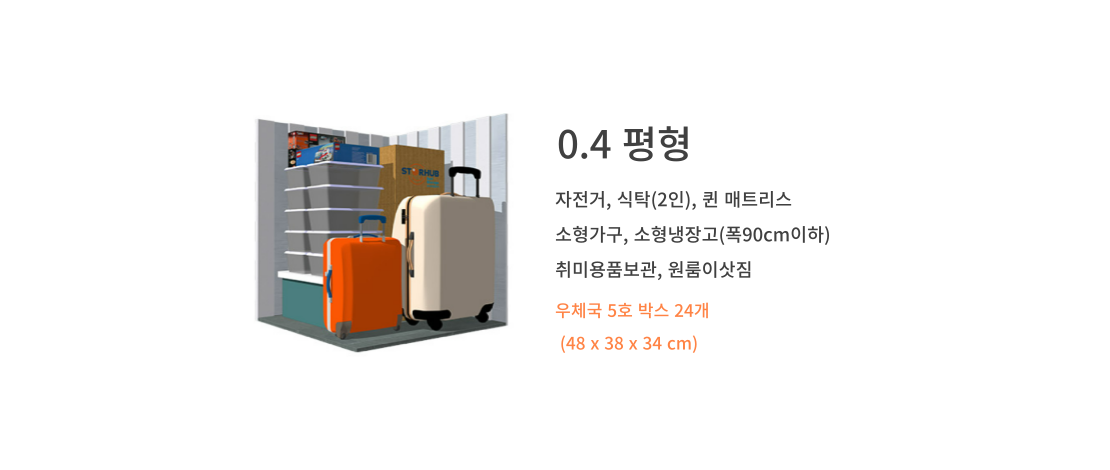
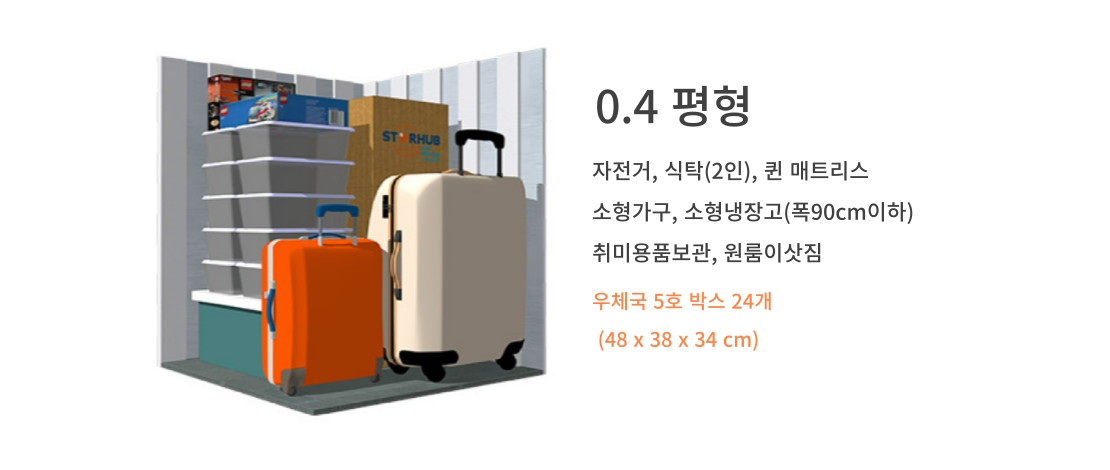
서비스이용안내 페이지 수정

Changed region(s): [[0.1225, 0.0894, 0.827, 0.8936]]

diff --git a/src/main/resources/templates/notice/service-use-Info.html b/src/main/resources/templates/notice/service-use-Info.html
@@ -24,7 +24,7 @@
                             <ul class="list-tap">
                                 <li class="list-item">
                                     <label for="small-size-button">
-                                        <button id="small-size-button" class="size-button">
+                                        <button id="small-size-button" type="button" class="size-button-select">
                                             <span class="size-text">소</span>
                                         </button>
                                     </label>
@@ -38,21 +38,21 @@
                                 </li>
                                 <li class="list-item">
                                     <label for="large-size-button">
-                                        <button id="large-size-button" class="size-button">
+                                        <button id="large-size-button" type="button" class="size-button">
                                             <span class="size-text">대</span>
                                         </button>
                                     </label>
                                 </li>
                                 <li class="list-item">
                                     <label for="extra-large-size-button">
-                                        <button id="extra-large-size-button" class="size-button">
+                                        <button id="extra-large-size-button" type="button" class="size-button">
                                             <span class="size-text">특대</span>
                                         </button>
                                     </label>
                                 </li>
                             </ul>
                             <div class="img-wrapper">
-                                <img src="/image/second-small.png">
+                                <img src="/image/size-000.png">
                             </div>
                         </div>
                     </div>
@@ -76,8 +76,8 @@
                         </div>
                         <div class="view-main">
                             <div class="view-img">
-                                <img src="/image/possible-test.png" class="possible-img">
-                                <img src="/image/impoissible-test.png" class="impossible-img">
+                                <img src="/image/possible.png" class="possible-img">
+                                <img src="/image/impoissible.png" class="impossible-img">
                             </div>
                         </div>
                     </div>

diff --git a/src/main/resources/static/css/notice/service-use-info.css b/src/main/resources/static/css/notice/service-use-info.css
@@ -67,8 +67,8 @@ b, strong {
 .view-wrapper {
     display: flex;
     justify-content: center;
-    align-items: center;
-    height: 500px;
+    /*align-items: center;*/
+    /*height: 500px;*/
 }
 
 .view-header-wrapper {
@@ -172,12 +172,13 @@ b, strong {
     white-space: nowrap;
 }
 .img-wrapper{
-    padding-bottom: 100px;
+    /*padding-bottom: 100px;*/
     margin: 0 auto;
-    max-width: 1000px;
+    max-width: 650px;
 }
 
 .header-img{
+    padding-bottom: 150px;
     display: flex;
     text-align: center;
     width: 77%;

diff --git a/src/main/resources/static/js/notice/serviceUseInfo.js b/src/main/resources/static/js/notice/serviceUseInfo.js
@@ -1,11 +1,11 @@
 /* 소중대특대벼튼 클릭 */
-const $sizeButton = $('.size-button');
+const $sizeButton = $('button[type=button]');
 
 $sizeButton.each((i, e) => {
     let $e = $(e);
     $e.on('click', () => {
         $('.size-button-select').attr('class', 'size-button');
         $e.attr("class", "size-button-select");
-        $(".img-wrapper img").attr("src", "../../static/image/size-00" + i + ".png");
+        $(".img-wrapper img").attr("src", "/image/size-00" + i + ".png");
     })
 });

diff --git a/src/test/java/com/app/jimcarry/service/StorageServiceTest.java b/src/test/java/com/app/jimcarry/service/StorageServiceTest.java
@@ -36,12 +36,12 @@ public class StorageServiceTest {
 
     @Test
     void getListByUserId() {
-        int total = storageService.getTotal();
-        Criteria criteria = new Criteria().create(1, 10);
-        PageDTO pageDTO = new PageDTO().createPageDTO(criteria, total);
+            int total = storageService.getTotal();
+            Criteria criteria = new Criteria().create(1, 10);
+            PageDTO pageDTO = new PageDTO().createPageDTO(criteria, total);
 //        pageDTO.setTypes(new ArrayList<>(Arrays.asList("userId", "keyword")));
 //        pageDTO.setKeyword("keyword");
 //        pageDTO.setUserId(1L);
-        storageService.getListBy(pageDTO);
+            storageService.getListBy(pageDTO);
     }
 }
